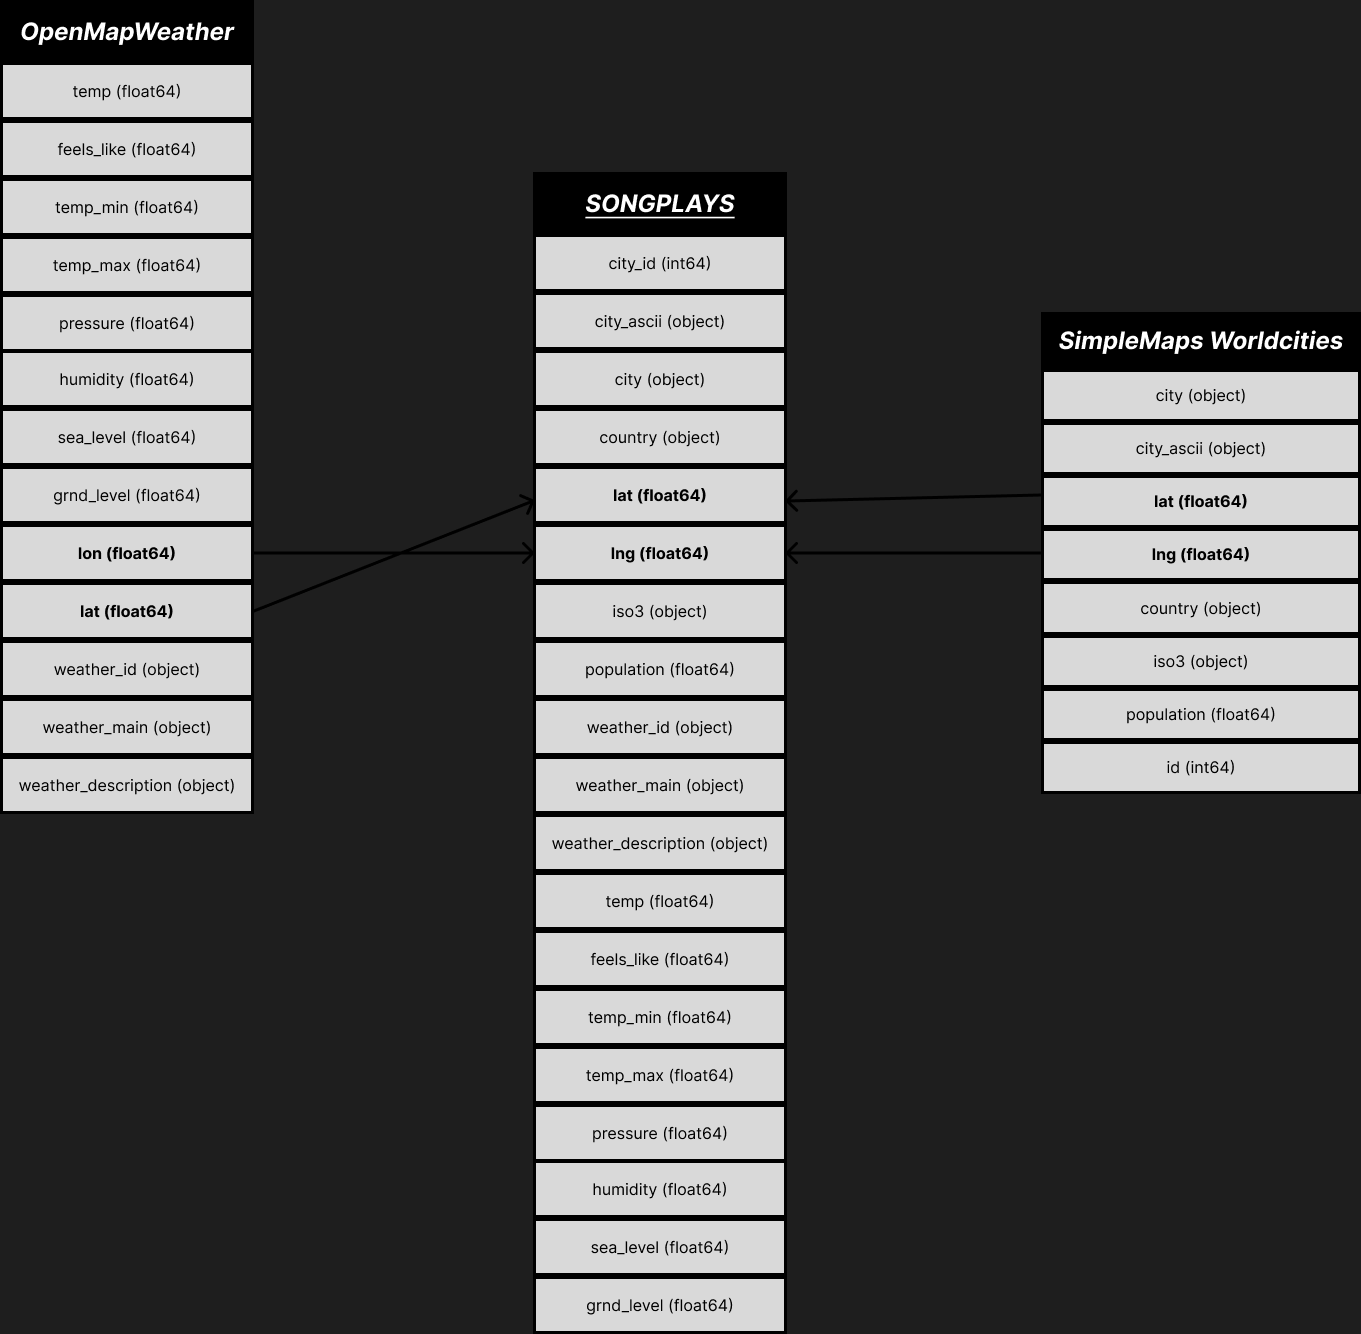
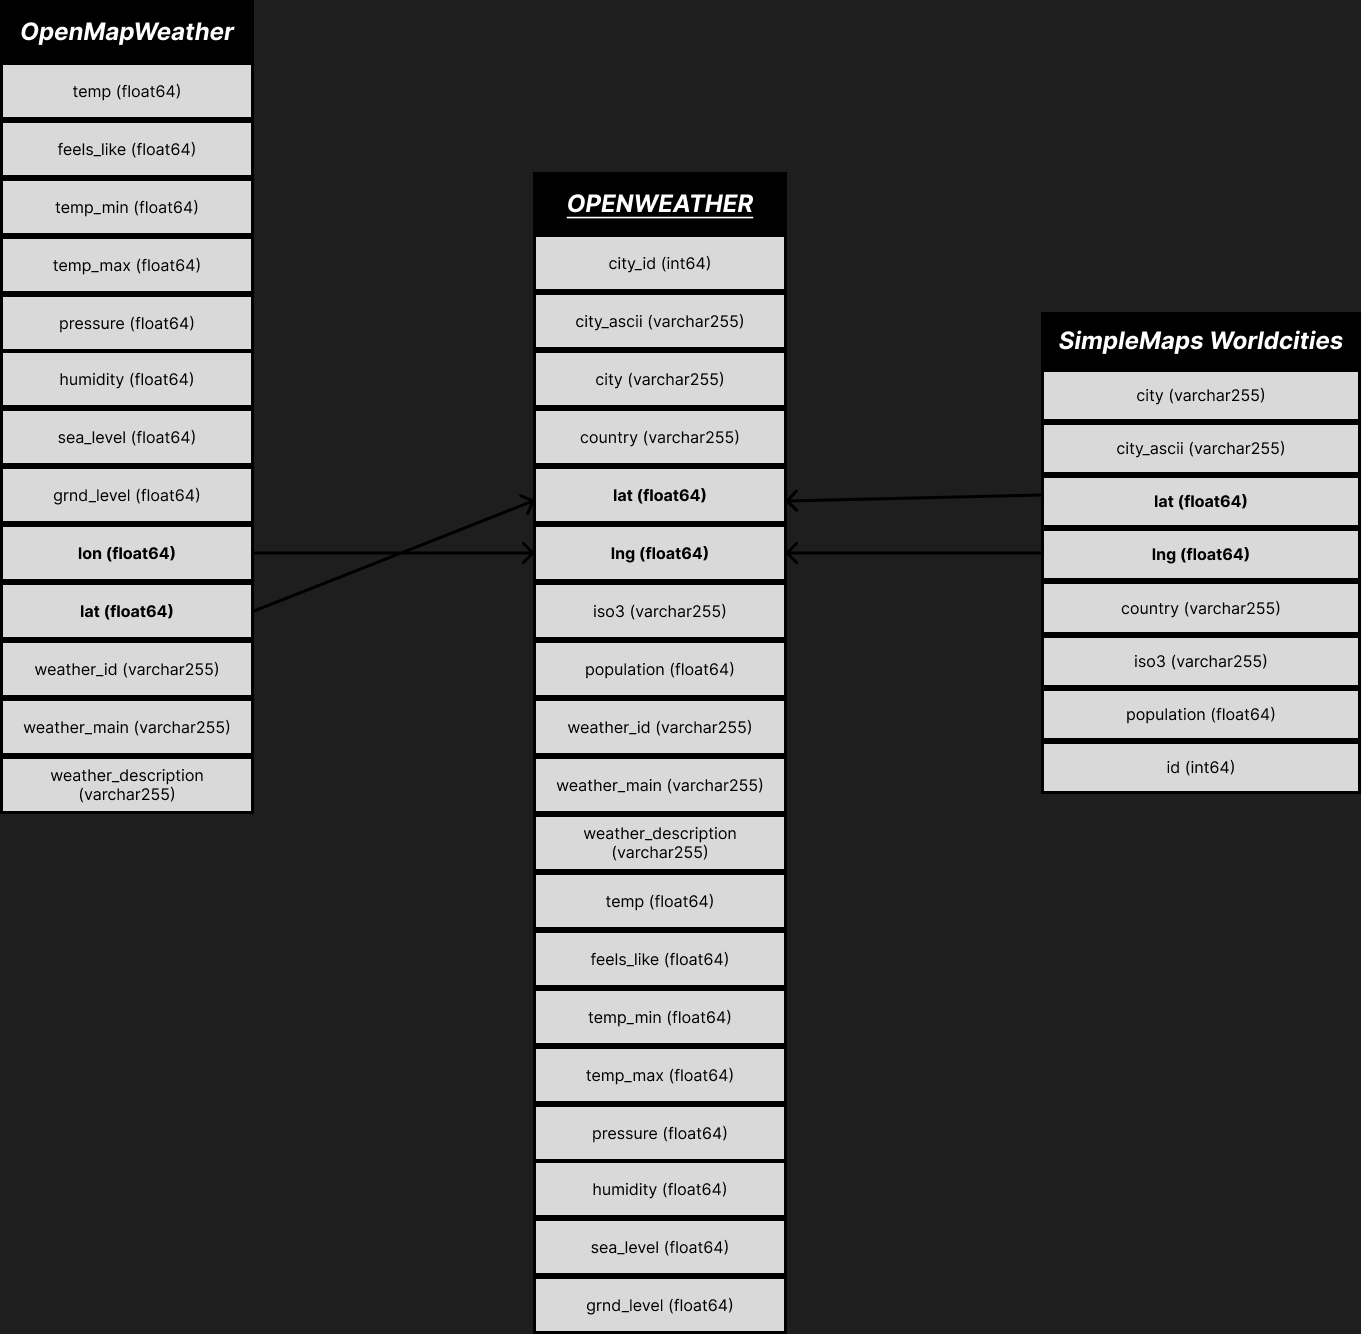
commit updates to helper_funcs.py

diff --git a/dags/helpers/helper_funcs.py b/dags/helpers/helper_funcs.py
@@ -4,6 +4,7 @@ import requests
 import pandas as pd
 import json 
 from sqlalchemy import create_engine
+import psycopg2
 
 def initialize_api_key():
     # Set environment variables
@@ -77,10 +78,48 @@ def join_to_worldcities():
     df = df.loc[:,['city_id','city_ascii','city','country','lat','lng','iso3','population','weather_id','weather_main','weather_description','temp','feels_like','temp_min','temp_max','pressure','humidity','sea_level','grnd_level']]
     
     return df
-j = join_to_worldcities()
-j.dtypes
+d = join_to_worldcities()
+d.dtypes
+
 def load_to_postgres():
     df = join_to_worldcities()
-    conn_string = 'postgresql://airflow:airflow@postgres:5432/airflow'
+    conn_string = "postgresql://postgres:postgres@localhost:5432/postgres"
     engine = create_engine(conn_string)
-    df.to_sql('openweather', engine, if_exists='append', index=False)
+    conn = engine.connect()
+    conn1 = psycopg2.connect(
+        database="postgres",
+        user="postgres",
+        password="postgres",
+        host="localhost",
+        port='5432'
+    )
+    conn1.autocommit = True
+    cursor = conn1.cursor()
+    cursor.execute('drop table if exists openweather')
+    sql = """
+        CREATE TABLE openweather (
+            city_id int,
+            city_ascii varchar(255),
+            city varchar(255),
+            country varchar(255),
+            lat float,
+            lng float,
+            iso3 varchar(255),
+            population float,
+            weather_id int,
+            weather_main varchar(255),
+            weather_description varchar(255),
+            temp float,
+            feels_like float,
+            temp_min float,
+            temp_max float,
+            pressure float,
+            humidity float,
+            sea_level float,
+            grnd_level float
+        )
+    """
+    cursor.execute(sql)
+    df.to_sql('openweather', conn, if_exists='append', index=False)
+    conn1.commit()
+    conn1.close()
